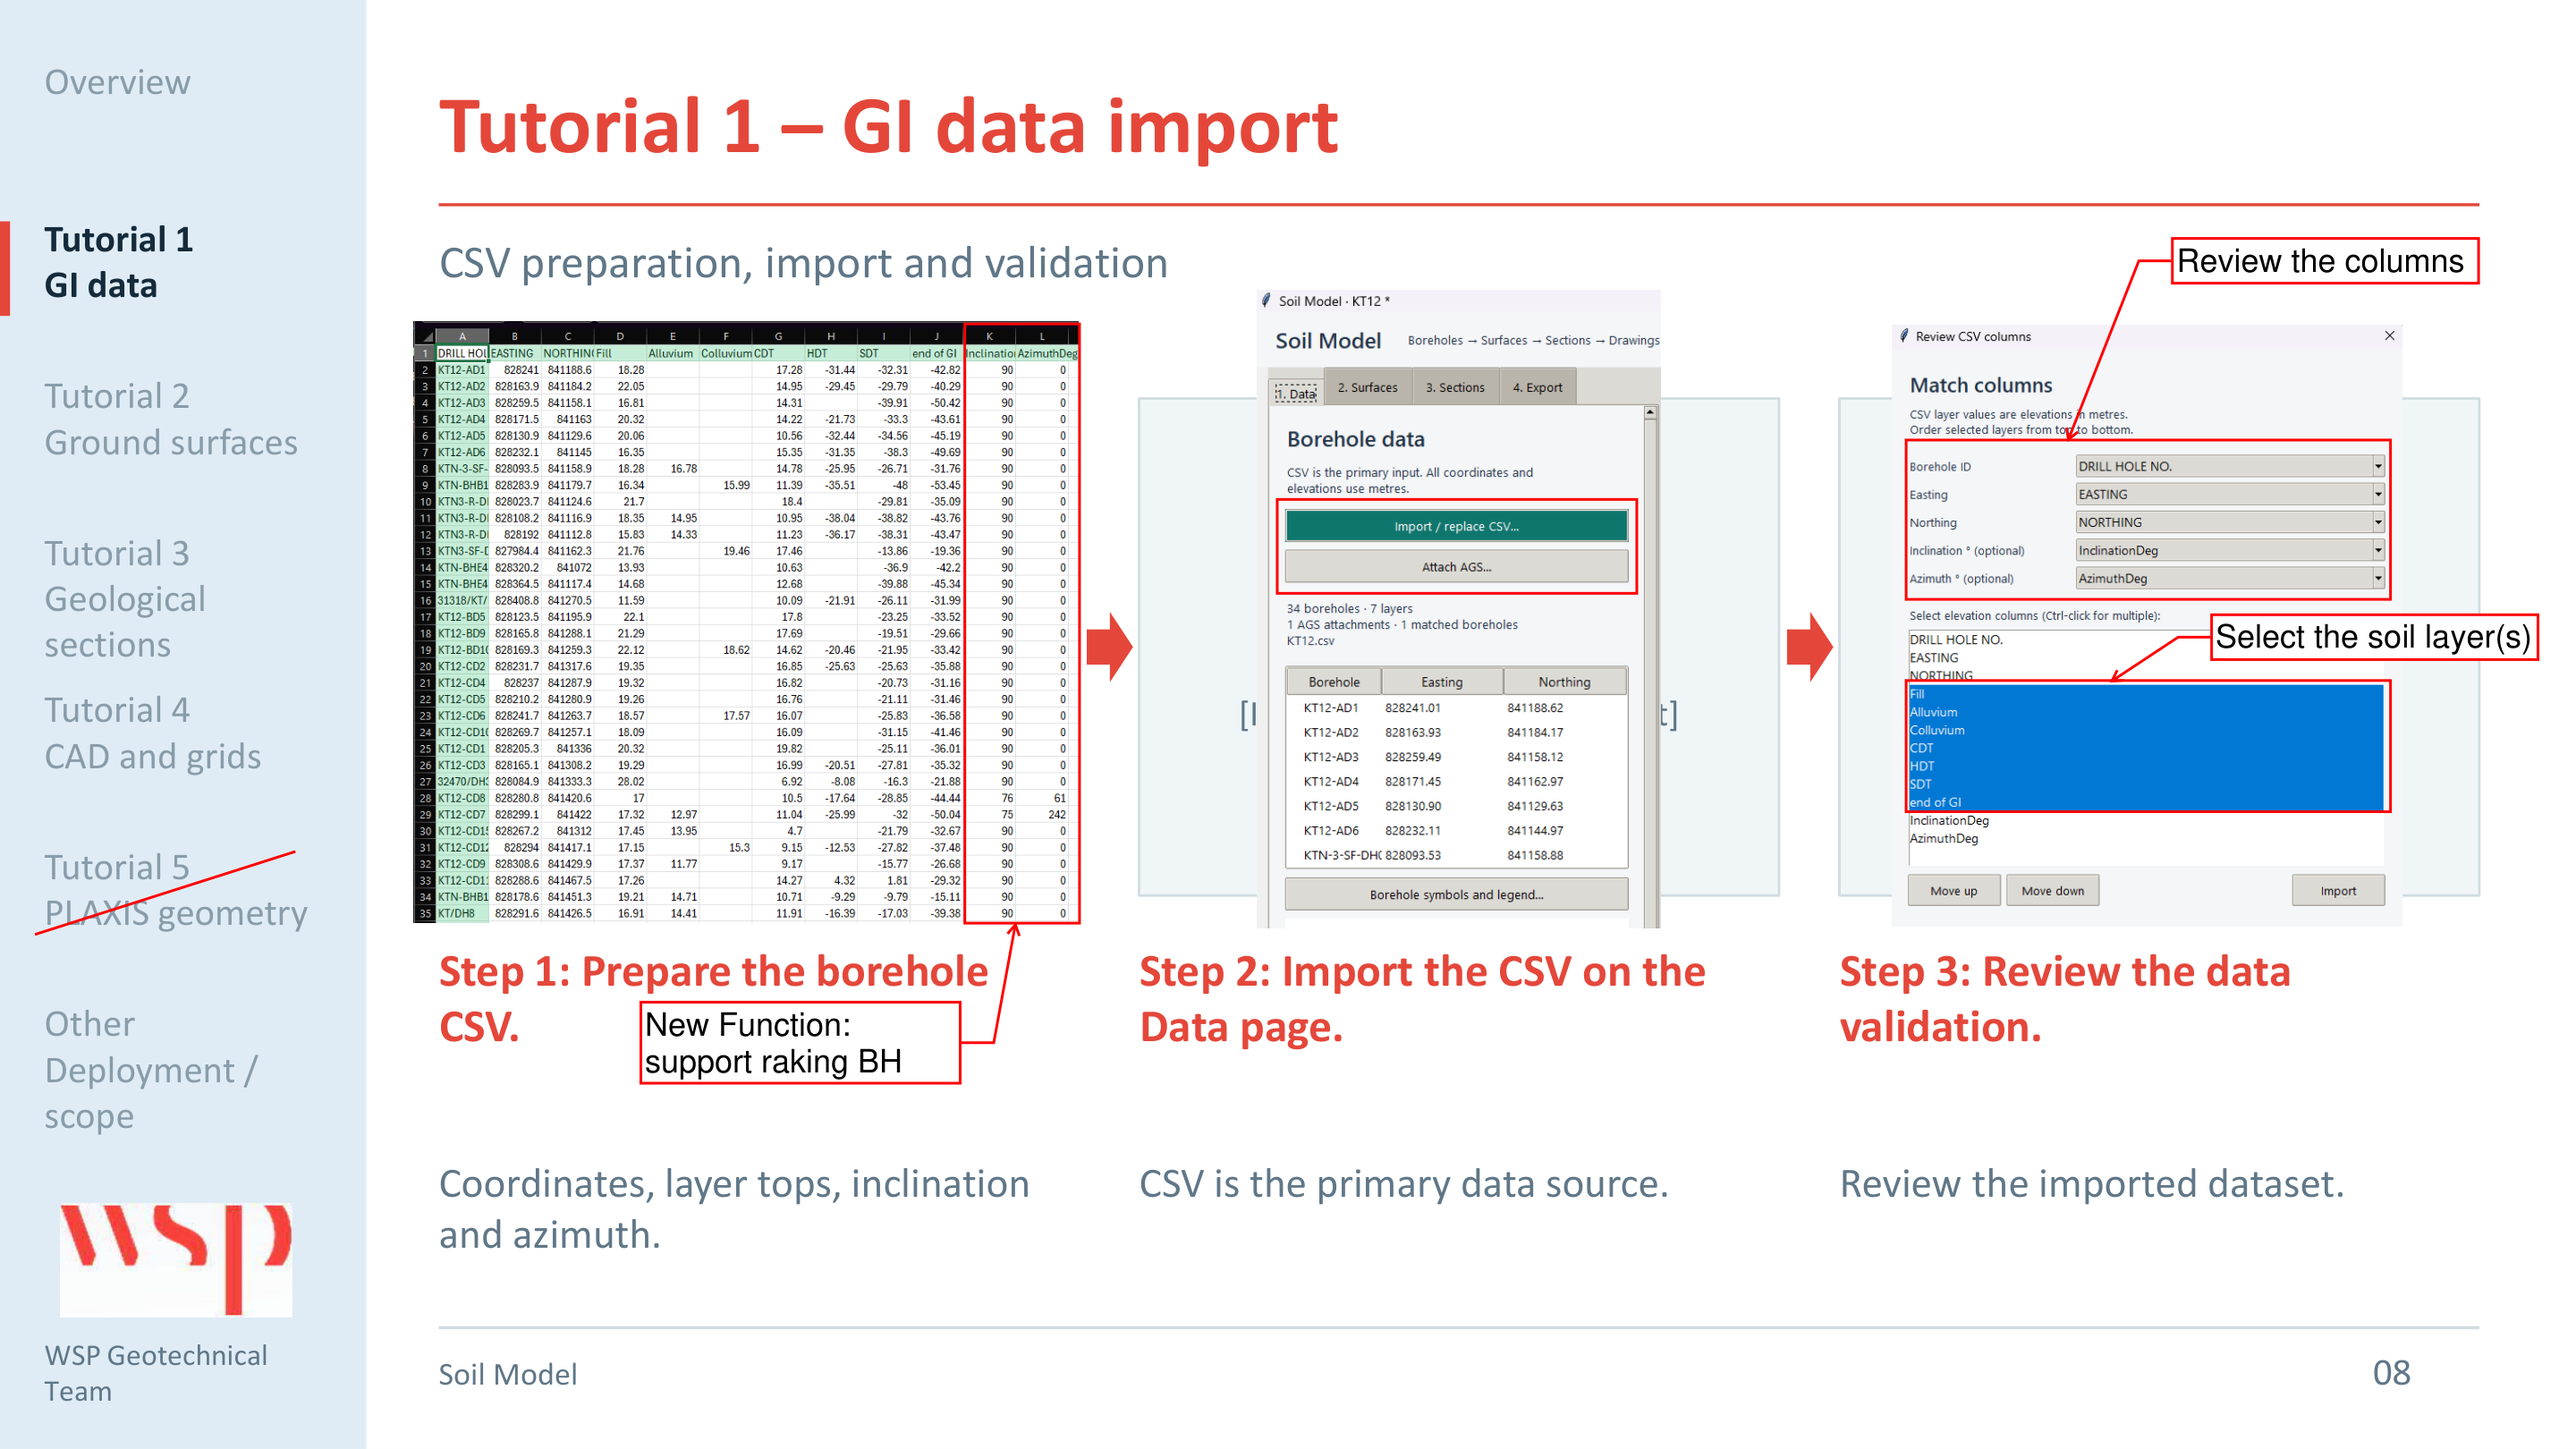
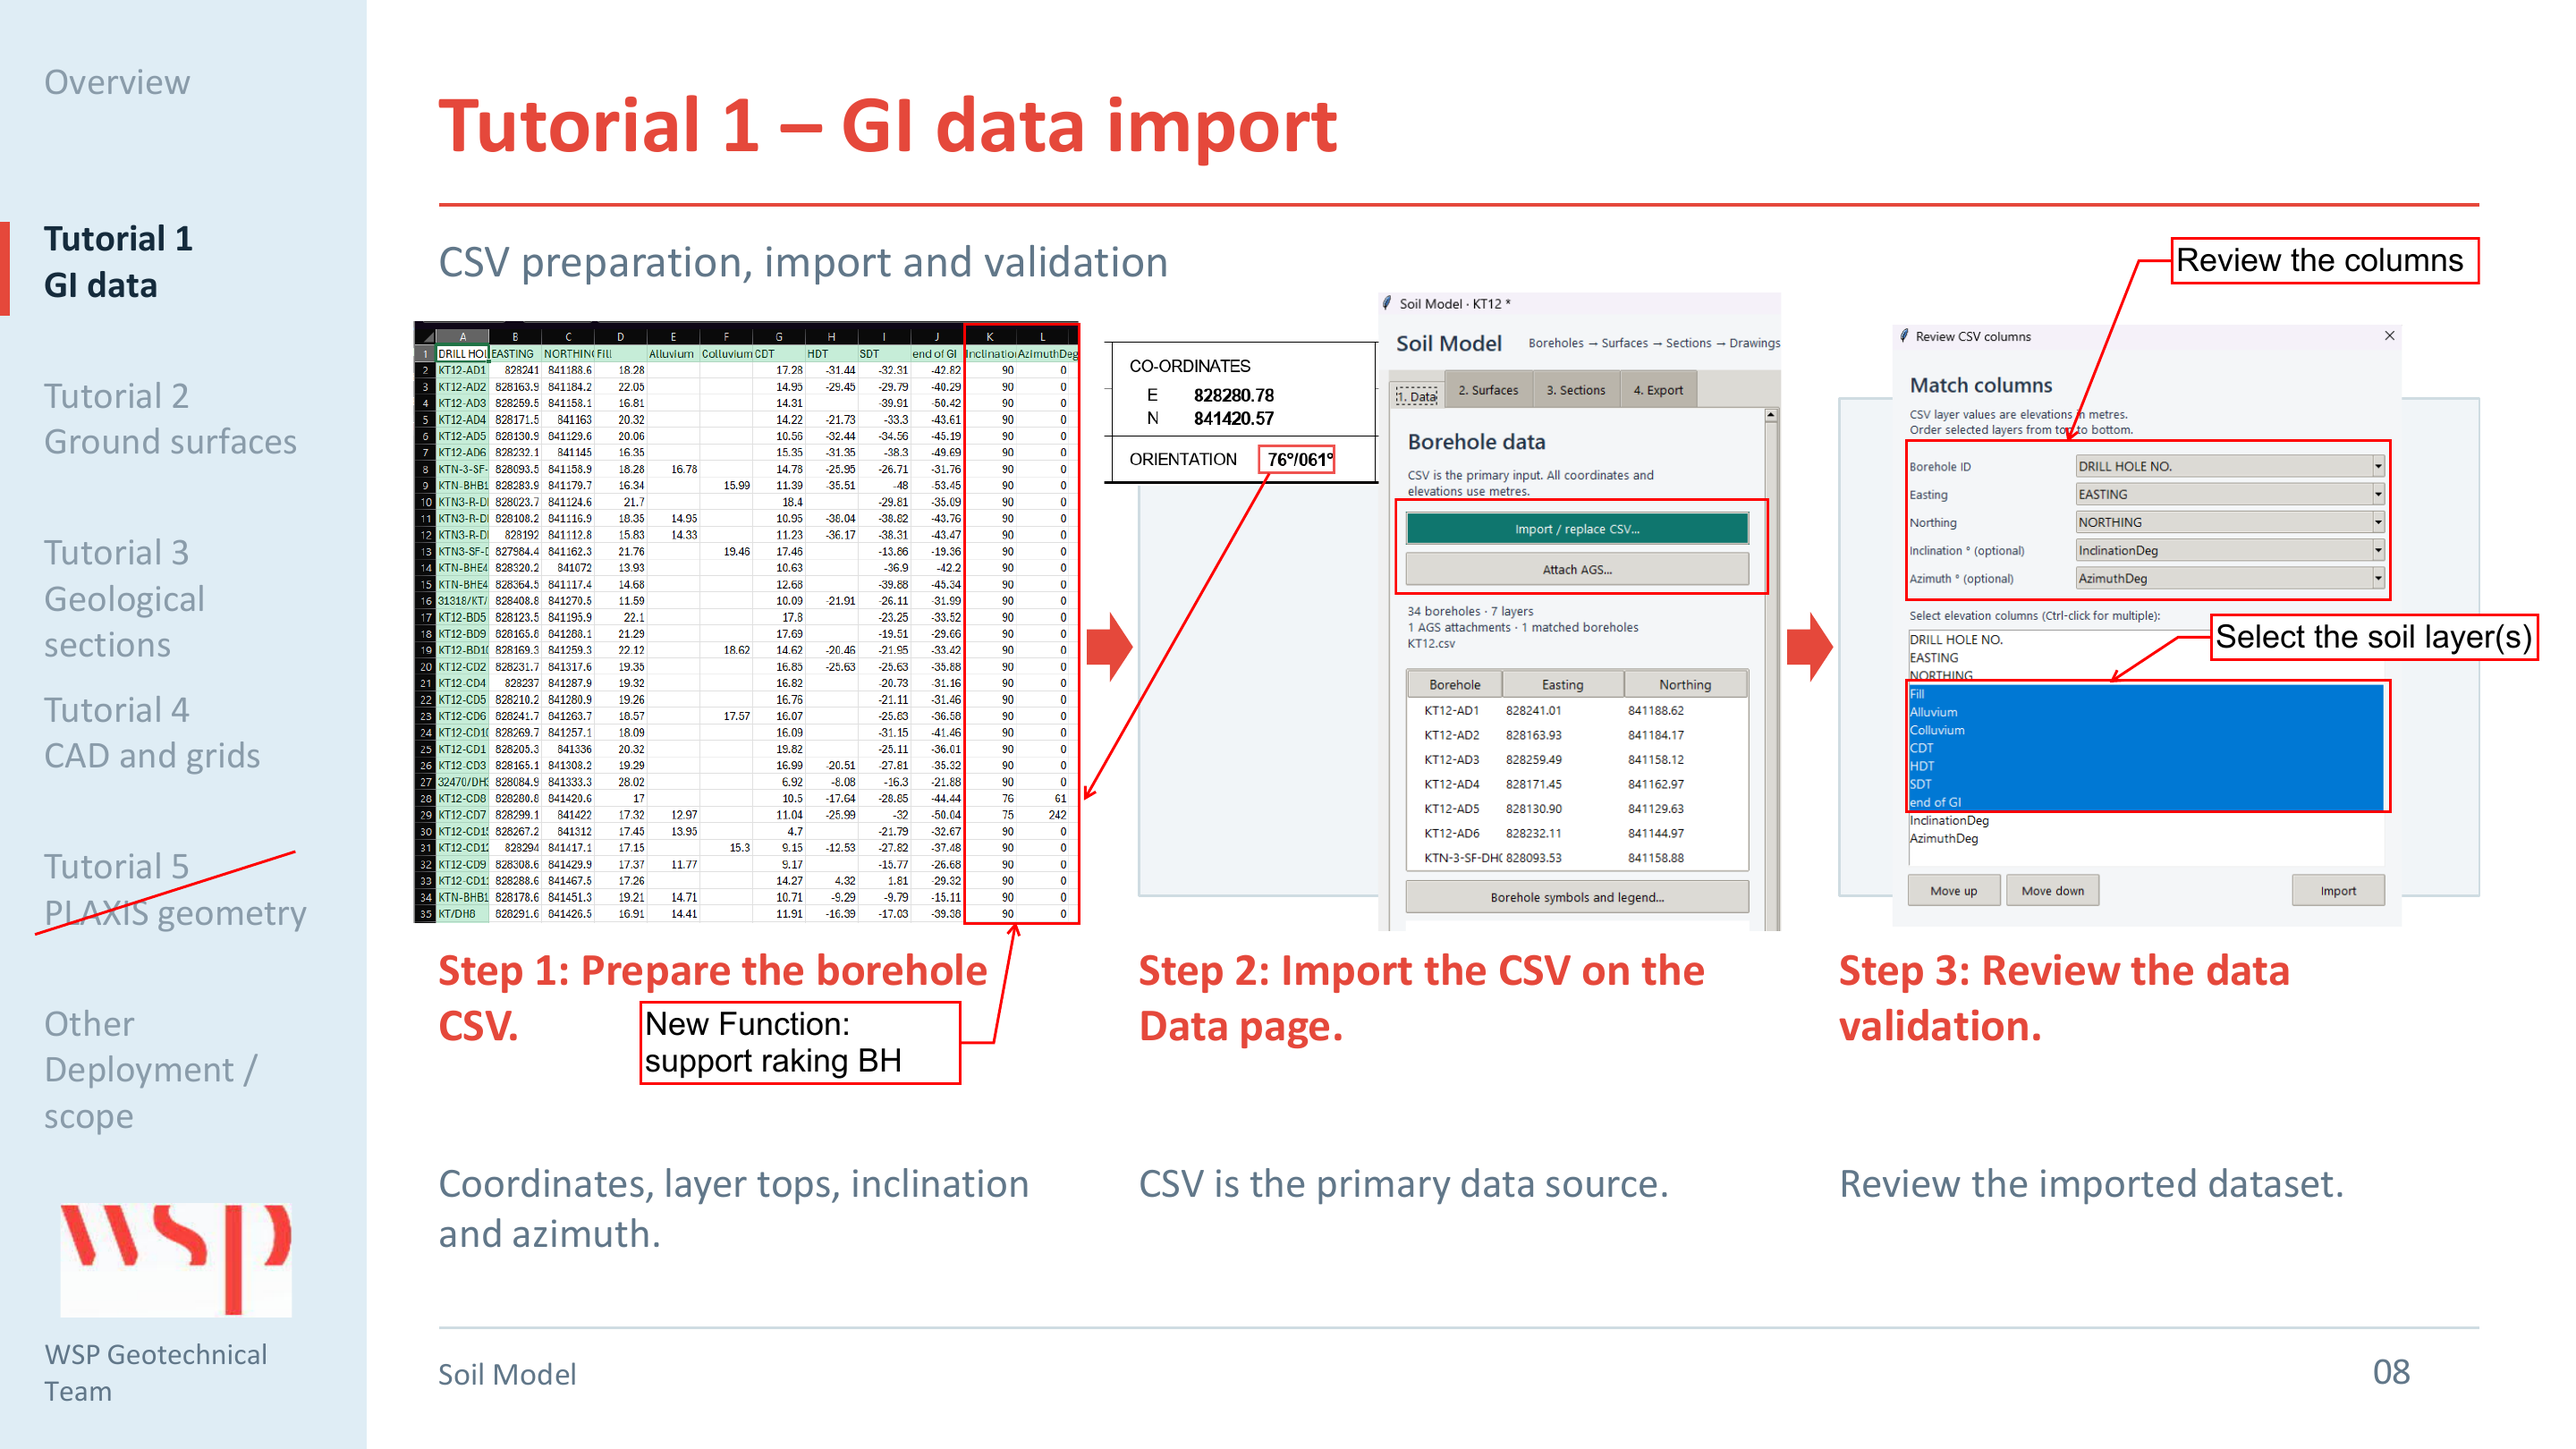
Replace tutorial page 9 with updated supplied PDF page

diff --git a/index.html b/index.html
@@ -19,7 +19,7 @@
 <template id="about"><article><div class="eyebrow">ABOUT</div><h1>GeoSketch</h1><p class="lead">Ground investigation modelling and drawing tool.</p><span class="version">Version 1.0.1</span><div class="about-panel"><h2>DEVELOPMENT</h2><p>Developed by <strong>Larry Yeung</strong></p><h2>ACKNOWLEDGEMENTS</h2><p>Special thanks to <strong>David Tsang</strong> for the original concept, valuable insights, and guidance throughout the development.</p><a class="li linkedin" aria-label="Larry Yeung on LinkedIn" target="_blank" rel="noopener noreferrer"></a></div><div class="note">The guide covers CSV and AGS data, Surfer surface generation, geological sections, 3D review and drawing exports.</div></article></template>
 
 <dialog id="page-viewer" class="pdf-dialog" aria-label="PDF tutorial page viewer"><div class="pdf-toolbar"><button type="button" id="pdf-previous" onclick="openPDFPage(currentPDFPage-1)" aria-label="Previous page">← Previous</button><select id="pdf-page-select" aria-label="Choose PDF page" onchange="openPDFPage(this.value)"></select><button type="button" id="pdf-next" onclick="openPDFPage(currentPDFPage+1)" aria-label="Next page">Next →</button><label for="pdf-zoom">Zoom</label><select id="pdf-zoom" onchange="setPDFZoom()"><option value="100">Fit width</option><option value="150">150%</option><option value="200">200%</option><option value="300">300%</option></select><button type="button" class="pdf-close" onclick="document.getElementById('page-viewer').close()">Close ✕</button></div><div class="pdf-view-scroll"><img id="pdf-large-image" alt="PDF tutorial page"></div></dialog>
-<script src="tutorial-pages.js"></script><script src="tutorial-viewer.js"></script>
+<script src="tutorial-pages.js?v=f2f4be1ec686"></script><script src="tutorial-viewer.js"></script>
 <script>
 const linkedin='https://www.linkedin.com/in/tsz-yuen-yeung-13588a186/';
 const icon='<img src="assets/linkedin-logo.png" alt="LinkedIn">';

diff --git a/tutorial-pages.js b/tutorial-pages.js
@@ -55,9 +55,11 @@ const tutorialPages = {
     },
     {
       "page": 9,
-      "image": "assets/tutorial-pages/page-09.png",
+      "image": "assets/tutorial-pages/page-09.png?v=f2f4be1ec686",
       "width": 2880,
-      "height": 1620
+      "height": 1620,
+      "source": "Page 9 from Soil Model - WSP Tutorial Flow.pdf",
[1 lines of base64/hex data omitted]
     },
     {
       "page": 10,
